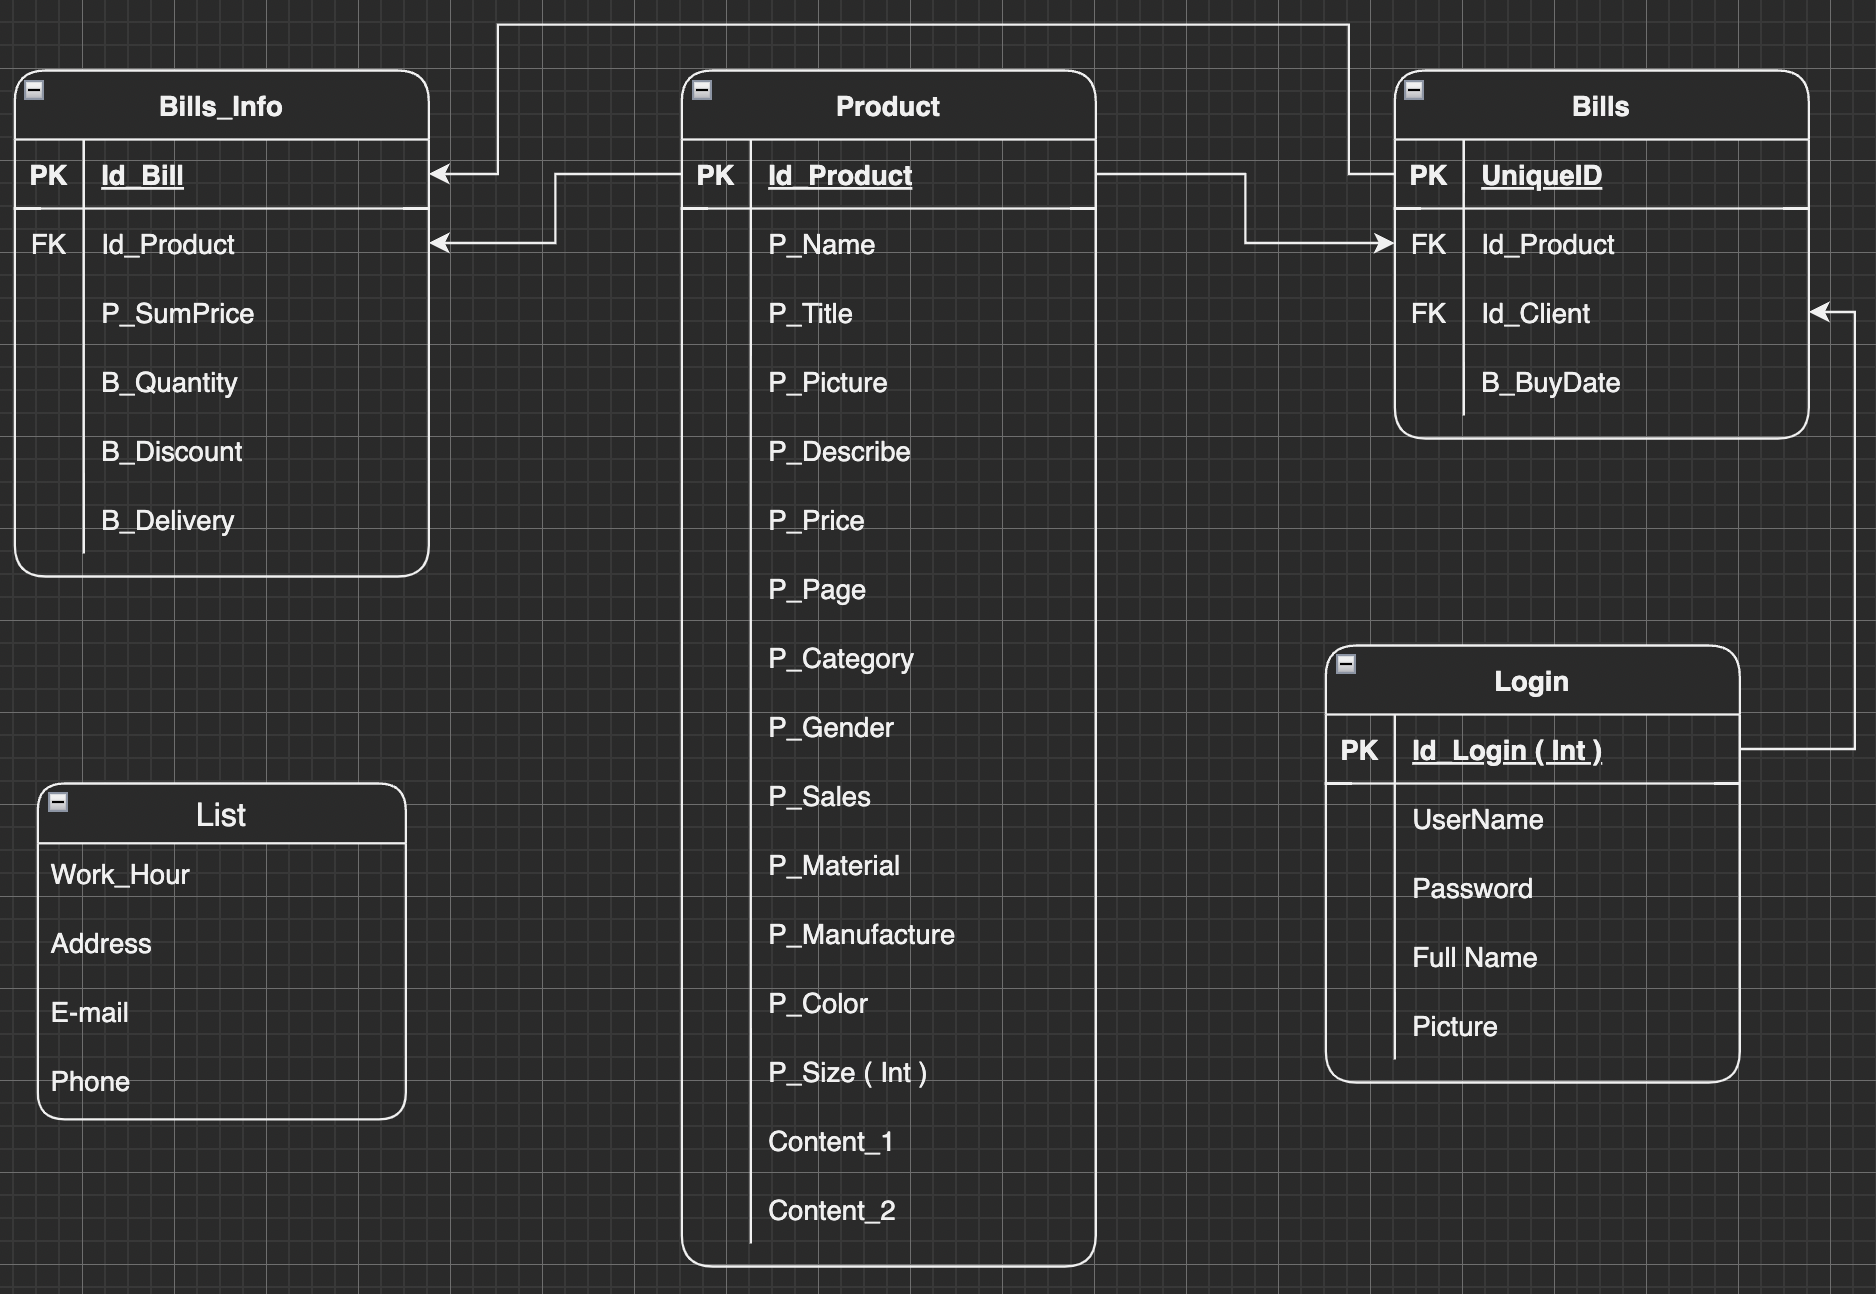
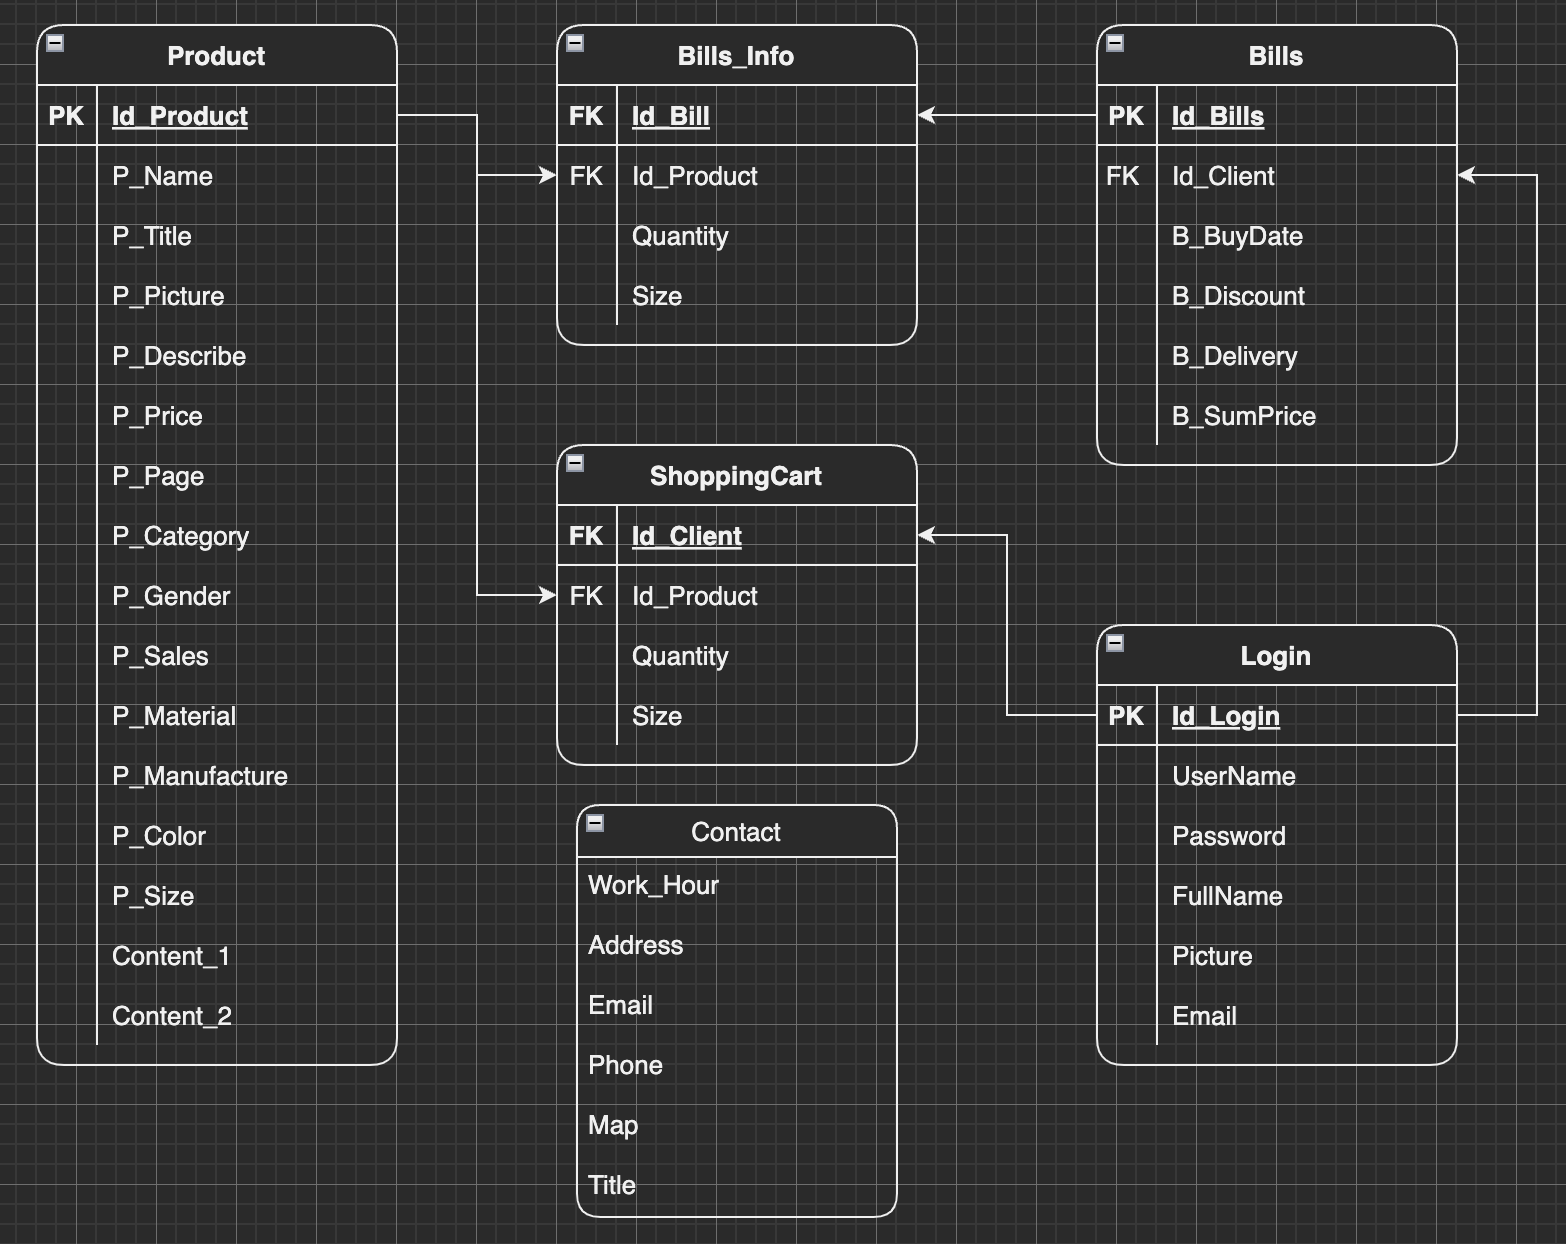
Change DB

diff --git a/server.js b/server.js
@@ -107,6 +107,12 @@ app.get('/api/bill', (req, res) => {
     })
 })
 
+app.get('/api/bill/info', (req, res) => {
+    sql.conSQL("Select * From Bills_Info", (recordset) => {
+        res.send(recordset)
+    })
+})
+
 app.get('/api/bill/:product/:client/:date', (req, res) => {
     var idProduct = req.params['product'];
     var idClient = req.params['client'];

diff --git a/README.md b/README.md
@@ -12,7 +12,6 @@ We have some pages for this project :
 * Shopping Cart
 * Catalogue 
 * Contact
-* Responsive
 
 --------------------------------
 ## Things you need to install before run
@@ -22,11 +21,11 @@ npm install
 --------------------------------
 ## Database:
 Tables :
-- Login ( Id_Login, UserName, Password, FullName, Picture )
-- Product ( Id_Product, P_Name, P_Describe, P_Price, P_Page, P_Category, P_Gender, P_Sales, P_Material, P_Manufacture, P_Color, P_Size , Content_1, Content_2 )
-- Bills ( Id_Bill ,Id_Product, Id_UserName, B_BuyDate )
-- Bills_Info ( Id_Bill ,Id_Product, P_Price, B_Quantity, B_Discount, B_Delivery )
-- Contact ( Work_hour, Address, E-mail, Phone)
+- Login ( Id_Login, UserName, Password, FullName, Picture, Email )
+- Product ( Id_Product, P_Name, P_Title, P_Picture, P_Describe, P_Price, P_Page, P_Category, P_Gender, P_Sales, P_Material, P_Manufacture, P_Color, P_Size , Content_1, Content_2 )
+- Bills ( Id_Bill, Id_Client, B_BuyDate, B_Discount, B_Delivery, B_SumPrice)
+- Bills_Info ( Id_Bill ,Id_Product, Quantity, Size)
+- Contact ( Work_hour, Address, E-mail, Phone, Map, Title)
 
 Diagram :
 ![alt text](/ArcaneDB_Diagram.png)
